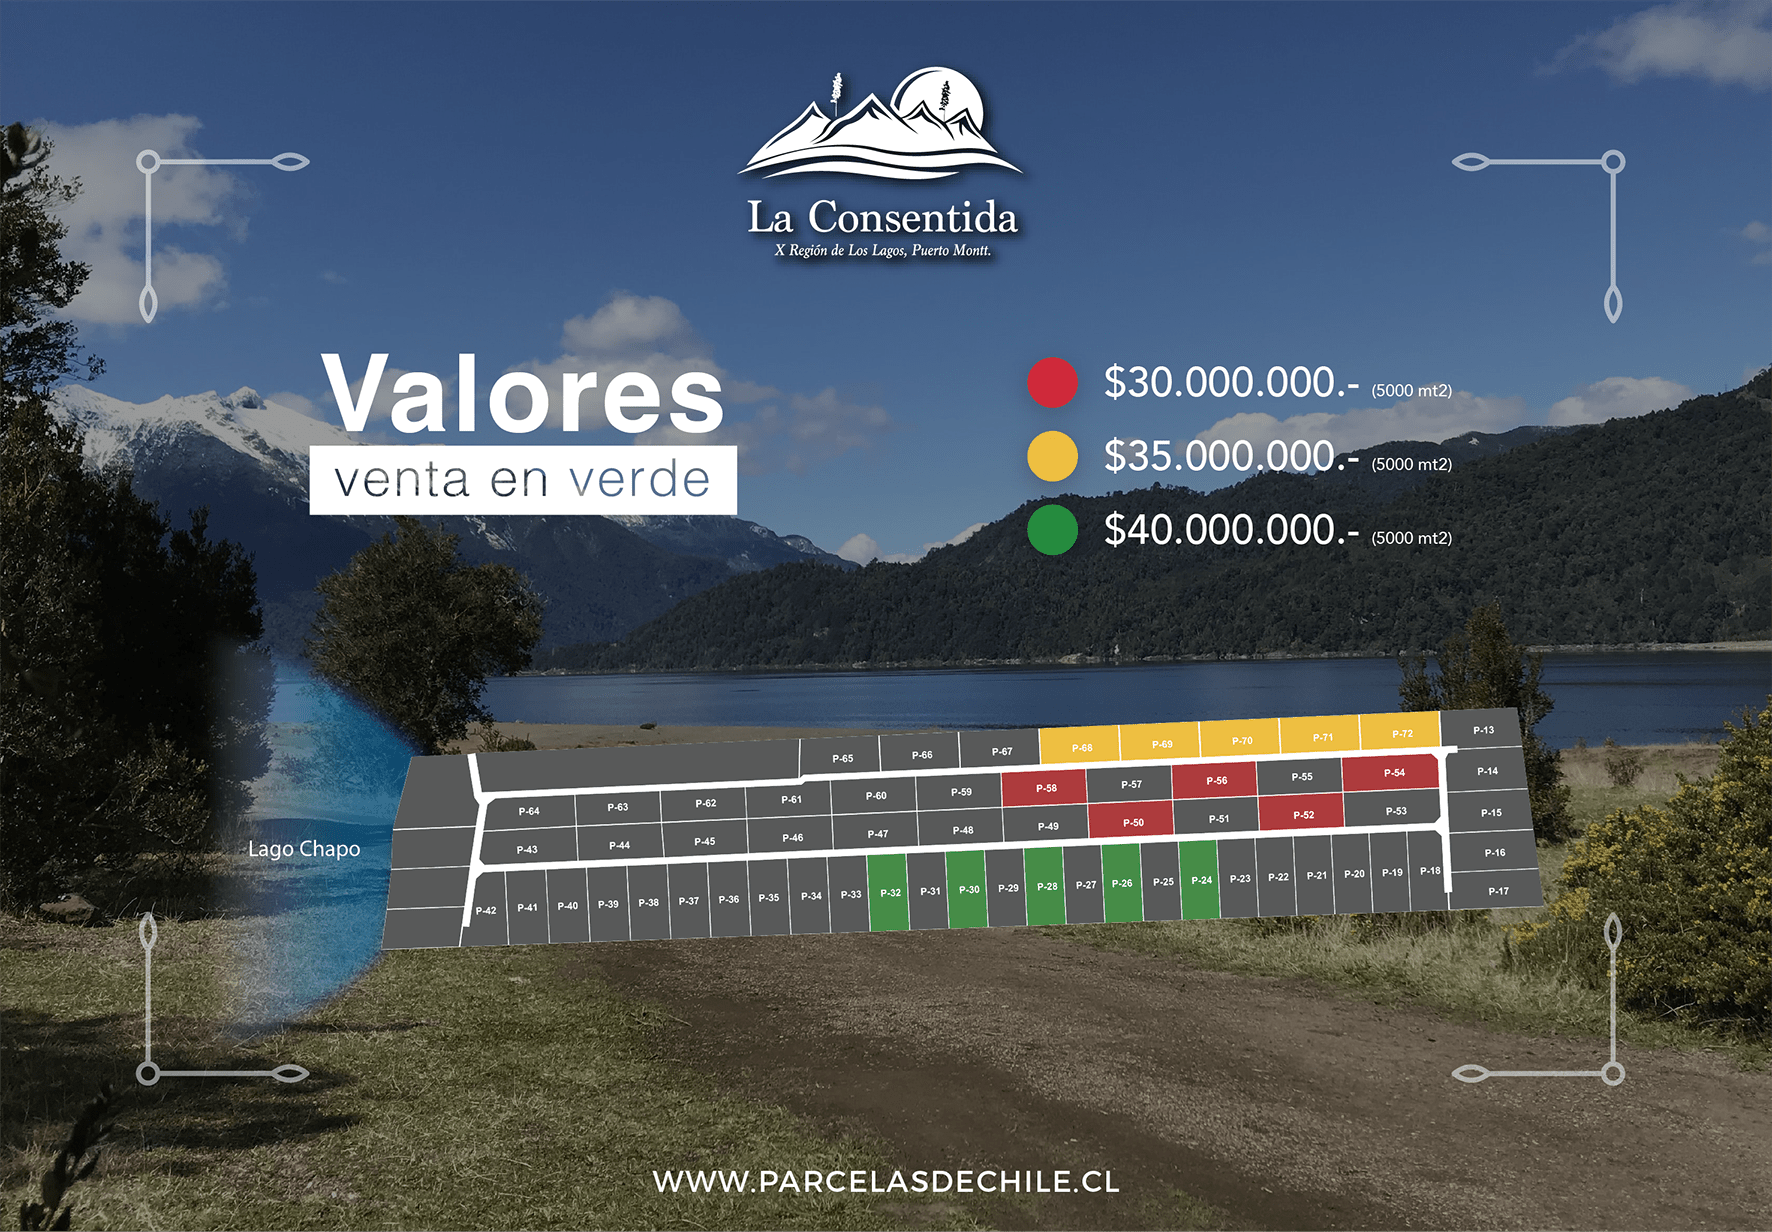
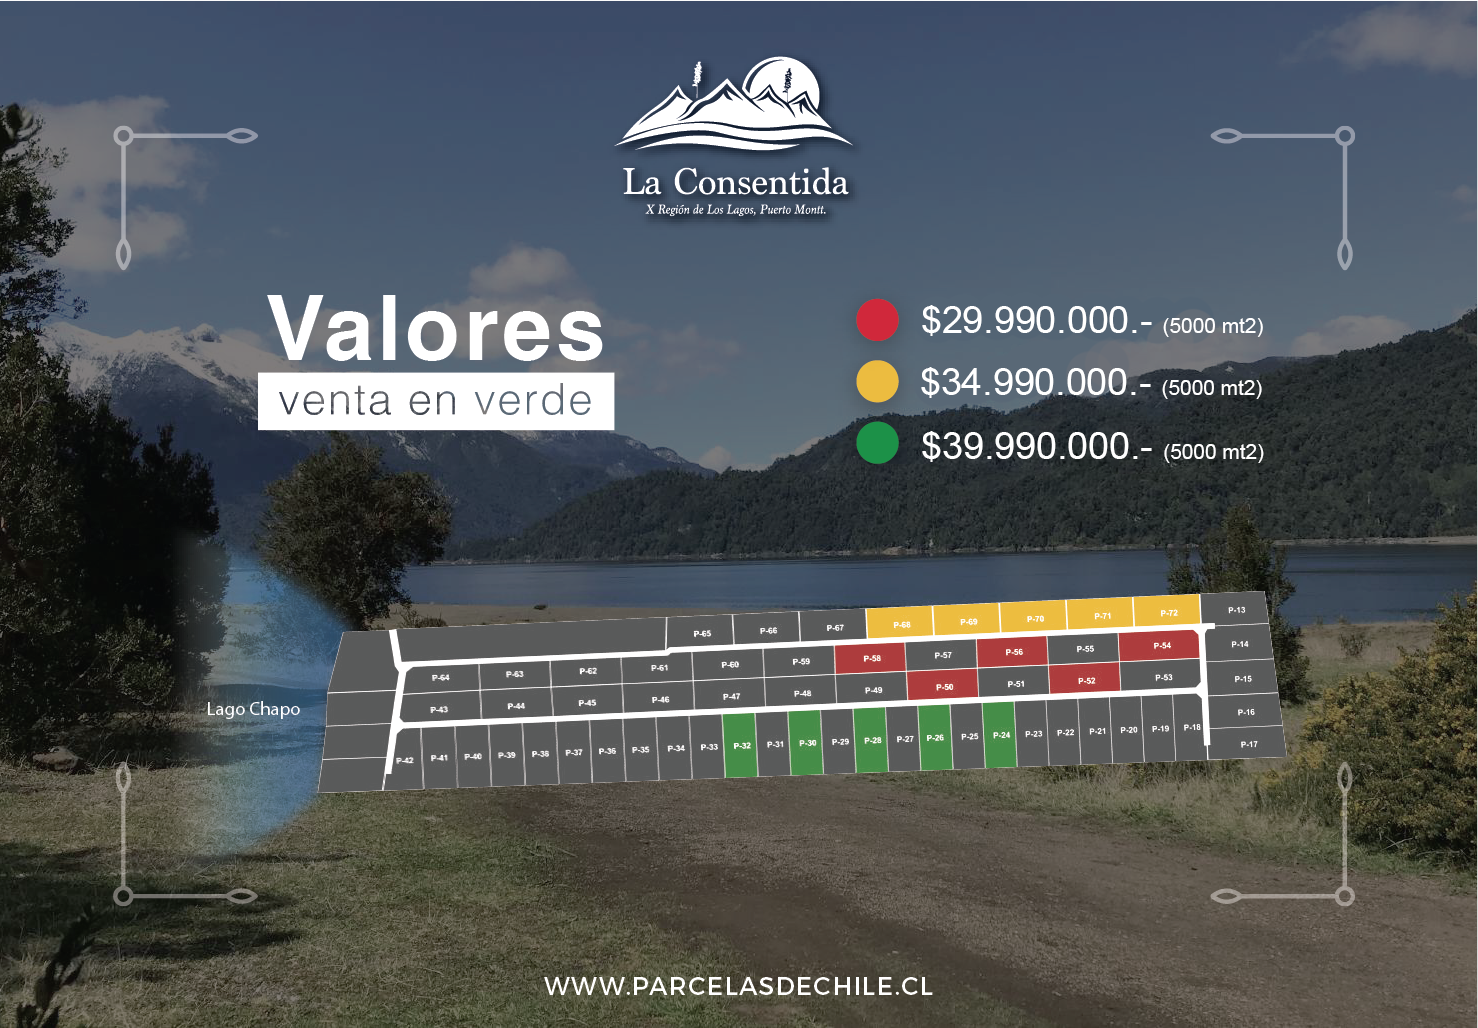
cambiando los precios de la consentida

diff --git a/view/componentes/mapsvg/js/laconsentida.js b/view/componentes/mapsvg/js/laconsentida.js
@@ -24,16 +24,16 @@
                         id: "p-68",
                         'id_no_spaces': "p-68",
                         fill: "rgba(247,188,4,1)",
-                        tooltip: "$35.000.000",
-                        popover: "$35.000.000",
+                        tooltip: "$34.990.000",
+                        popover: "$34.990.000",
                         data: {}
                     },
                     'p-69': {
                         id: "p-69",
                         'id_no_spaces': "p-69",
                         fill: "rgba(247,188,4,1)",
-                        tooltip: "$35.000.000",
-                        popover: "$35.000.000",
+                        tooltip: "$34.990.000",
+                        popover: "$34.990.000",
                         data: {}
                     },
                      'lago': {
@@ -46,104 +46,104 @@
                         id: "p-70",
                         'id_no_spaces': "p-70",
                         fill: "rgba(247,188,4,1)",
-                        tooltip: "$35.000.000",
-                        popover: "$35.000.000",
+                        tooltip: "$34.990.000",
+                        popover: "$34.990.000",
                         data: {}
                     },
                     'p-71': {
                         id: "p-71",
                         'id_no_spaces': "p-71",
                         fill: "rgba(247,188,4,1)",
-                        tooltip: "$35.000.000",
-                        popover: "$35.000.000",
+                        tooltip: "$34.990.000",
+                        popover: "$34.990.000",
                         data: {}
                     },
                     'p-72': {
                         id: "p-72",
                         'id_no_spaces': "p-72",
                         fill: "rgba(247,188,4,1)",
-                        tooltip: "$35.000.000",
-                        popover: "$35.000.000",
+                        tooltip: "$34.990.000",
+                        popover: "$34.990.000",
                         data: {}
                     },
                     'p-32': {
                         id: "p-32",
                         'id_no_spaces': "p-32",
                         fill: "rgba(25,143,61,1)",
-                        tooltip: "$40.000.000",
-                        popover: "$40.000.000",
+                        tooltip: "$39.990.000",
+                        popover: "$39.990.000",
                         data: {}
                     },
                     'p-30': {
                         id: "p-30",
                         'id_no_spaces': "p-30",
                         fill: "rgba(25,143,61,1)",
-                        tooltip: "$40.000.000",
-                        popover: "$40.000.000",
+                        tooltip: "$39.990.000",
+                        popover: "$39.990.000",
                         data: {}
                     },
                     'p-28': {
                         id: "p-28",
                         'id_no_spaces': "p-28",
                         fill: "rgba(25,143,61,1)",
-                        tooltip: "$40.000.000",
-                        popover: "$40.000.000",
+                        tooltip: "$39.990.000",
+                        popover: "$39.990.000",
                         data: {}
                     },
                     'p-26': {
                         id: "p-26",
                         'id_no_spaces': "p-26",
                         fill: "rgba(25,143,61,1)",
-                        tooltip: "$40.000.000",
-                        popover: "$40.000.000",
+                        tooltip: "$39.990.000",
+                        popover: "$39.990.000",
                         data: {}
                     },
                     'p-24': {
                         id: "p-24",
                         'id_no_spaces': "p-24",
                         fill: "rgba(25,143,61,1)",
-                        tooltip: "$40.000.000",
-                        popover: "$40.000.000",
+                        tooltip: "$39.990.000",
+                        popover: "$39.990.000",
                         data: {}
                     },
                     'p-58': {
                         id: "p-58",
                         'id_no_spaces': "p-58",
-                        fill: "rgba(190,46,56,1)",
-                        tooltip: "$30.000.000",
-                        popover: "$30.000.000",
+                        fill: "rgba(88,89,89,1)",
+                        tooltip: "NO DISPONIBLE",
+                        popover: "NO DISPONIBLE",
                         data: {}
                     },
                     'p-50': {
                         id: "p-50",
                         'id_no_spaces': "p-50",
                         fill: "rgba(190,46,56,1)",
-                        tooltip: "$30.000.000",
-                        popover: "$30.000.000",
+                        tooltip: "$29.990.000",
+                        popover: "$29.990.000",
                         data: {}
                     },
                     'p-56': {
                         id: "p-56",
                         'id_no_spaces': "p-56",
                         fill: "rgba(190,46,56,1)",
-                        tooltip: "$30.000.000",
-                        popover: "$30.000.000",
+                        tooltip: "$29.990.000",
+                        popover: "$29.990.000",
                         data: {}
                     },
                     'p-52': {
                         id: "p-52",
                         'id_no_spaces': "p-52",
                         fill: "rgba(190,46,56,1)",
-                        tooltip: "$30.000.000",
-                        popover: "$30.000.000",
+                        tooltip: "$29.990.000",
+                        popover: "$29.990.000",
                         data: {}
                     },
                     'p-54': {
                         id: "p-54",
                         'id_no_spaces': "p-54",
                         fill: "rgba(190,46,56,1)",
-                        tooltip: "$30.000.000",
-                        popover: "$30.000.000",
+                        tooltip: "$29.990.000",
+                        popover: "$29.990.000",
                         data: {}
                     }
                 },

diff --git a/view/modulos/laconsentida.php b/view/modulos/laconsentida.php
@@ -132,20 +132,20 @@
                                        <div class="col-md-3">
                                             <br>
                                             <div class="valor1">
-                                                <p>$30.000.000</p>
+                                                <p>$29.990.000</p>
                                             </div>
                                         </div>
                                         <div class="col-md-3">
                                             <br>
                                             <div class="valor4">
-                                                <p>$35.000.000</p>
+                                                <p>$34.990.000</p>
                                             </div>
                                         </div>
                                         
                                         <div class="col-md-3">
                                             <br>
                                             <div class="valor2">
-                                                <p>$40.000.000</p>
+                                                <p>$39.990.000</p>
                                             </div>
                                         </div>
                                         <div class="col-md-3">
@@ -284,7 +284,7 @@
                                                     <br>
                                                     <h2 class="shadow1">Parcelación El Volantín</h2>
                                                     <br>
-                                                    <h3 class="shadow1" class="offset-top-30 text-primary">Desde los $7.990.000</h3>
+                                                    <h3 class="shadow1" class="offset-top-30 text-primary">Desde los $8.490.000</h3>
                                                     <br>
                                                     <p class="shadow1" class="offset-top-30">Marchihue en la Provincia de Cardenal Caro <br> (Región del Libertador General Bernardo O'Higgins)<br>es un lugar en Chile a 138 km al suroeste de Santiago.</p>
                                                     <a href="parcelacionelvolantin" class="offset-top-20 btn btn-primary text-regular shadow2">Ver más</a>

diff --git a/view/modulos/inicio.php b/view/modulos/inicio.php
@@ -57,7 +57,7 @@
                             <h1>Parcelas de Chile <br>
                                 <span class="familiar">Tu proyecto familiar</span></h1>
                             <br>
-                            <p class="offset-top-35">Parcelas desde los $30.000.000, Un terreno es la mejor forma de asegurar el futuro de tu familia, parcelas en el Lago Chapo, Puerto Montt "Fundo La Consentida"</p>
+                            <p class="offset-top-35">Parcelas desde los $29.990.000, Un terreno es la mejor forma de asegurar el futuro de tu familia, parcelas en el Lago Chapo, Puerto Montt "Fundo La Consentida"</p>
                             <br>
                             <button type="button" class="btn btn-primary video-btn" data-toggle="modal" data-src="https://www.youtube.com/embed/7X0FgJ6MsxM" data-target="#myModal">
                                 ver video
